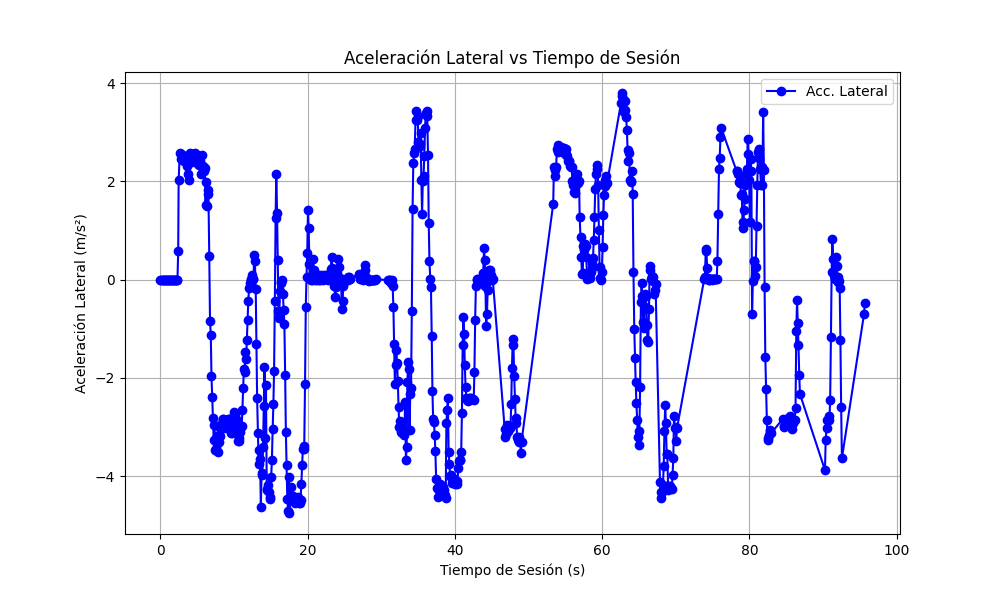
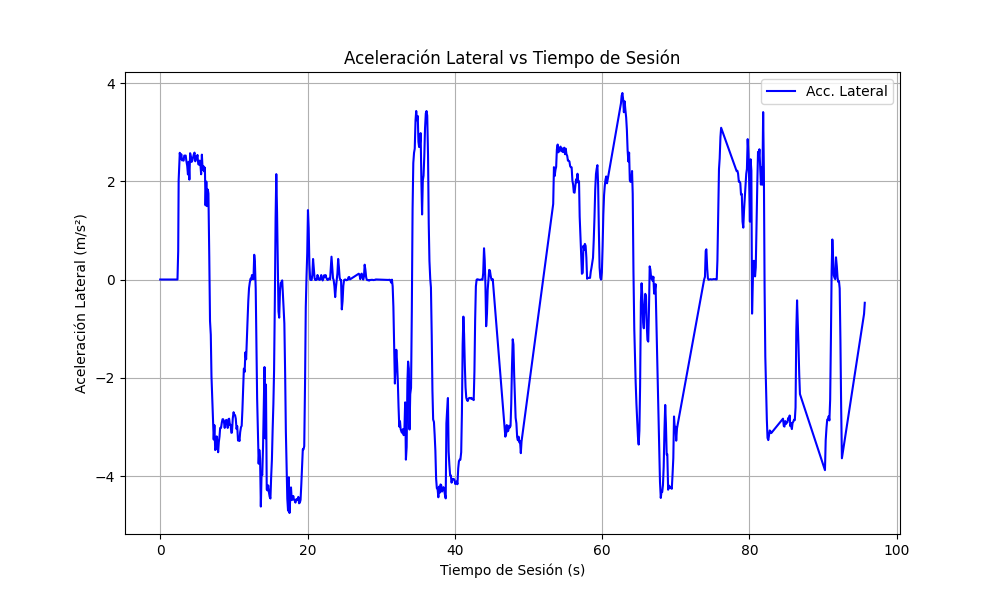
stint repository

diff --git a/f1api/src/main/java/com/f1api/service/packet/PacketLapDataService.java b/f1api/src/main/java/com/f1api/service/packet/PacketLapDataService.java
@@ -2,26 +2,34 @@ package com.f1api.service.packet;
 
 
 import org.springframework.stereotype.Service;
+
 import com.f1api.entity.mongo.packet.lapdata.PacketLapDataEntity;
 import com.f1api.kafka.messaging.packet.PacketReceived;
 import com.f1api.kafka.messaging.packet.types.PacketLapData;
 import com.f1api.repository.mongo.packet.PacketLapDataMongoRepository;
+
 import java.time.LocalDateTime;
 import java.util.List;
 import java.util.UUID;
 import java.util.stream.Collectors;
+
 import com.f1api.entity.mongo.packet.lapdata.LapDataEntity;
 import com.f1api.kafka.messaging.data.LapData;
-import lombok.RequiredArgsConstructor;
+import com.f1api.repository.mongo.stint.StintMongoRepository;
 
 @Service
-@RequiredArgsConstructor
 public class PacketLapDataService extends BaseService{
 
     private final PacketLapDataMongoRepository repository;
 
+    public PacketLapDataService(PacketLapDataMongoRepository repository, StintMongoRepository stintRepository) {
+        super(stintRepository);
+        this.repository = repository;
+    }
+
     public void process(PacketReceived packet){
-       this.repository.save(this.createEntity(packet));
+        this.saveStintNameIfNotExists(packet.getStintName());
+        this.repository.save(this.createEntity(packet));
     }
 
     private PacketLapDataEntity createEntity(PacketReceived packet){

diff --git a/f1api/src/main/java/com/f1api/service/packet/BaseService.java b/f1api/src/main/java/com/f1api/service/packet/BaseService.java
@@ -1,12 +1,24 @@
 package com.f1api.service.packet;
 
+import java.time.Instant;
+import java.time.LocalDateTime;
+import java.util.UUID;
+
 import org.springframework.stereotype.Service;
 
 import com.f1api.entity.mongo.packet.PacketHeaderEntity;
+import com.f1api.entity.mongo.stint.StintEntity;
 import com.f1api.kafka.messaging.packet.types.PacketHeader;
+import com.f1api.repository.mongo.stint.StintMongoRepository;
+
+import lombok.RequiredArgsConstructor;
 
 @Service
+@RequiredArgsConstructor
 public class BaseService {
+
+    protected final StintMongoRepository stintRepository;
+
     protected PacketHeaderEntity createHeaderEntity(PacketHeader packetHeader){
         return new PacketHeaderEntity(
             packetHeader.getPacketFormat(),
@@ -22,5 +34,11 @@ public class BaseService {
             packetHeader.getPlayerCarIndex(),
             packetHeader.getSecondaryPlayerCarIndex()
         );
+    }
+
+    protected void saveStintNameIfNotExists(String stintName){
+        if(!this.stintRepository.existsByStintName(stintName)){
+            this.stintRepository.save(new StintEntity(UUID.randomUUID(), stintName, LocalDateTime.now()));
+        }
     }
 }

diff --git a/f1api/src/main/java/com/f1api/service/packet/PacketCarTelemetryDataService.java b/f1api/src/main/java/com/f1api/service/packet/PacketCarTelemetryDataService.java
@@ -13,16 +13,20 @@ import com.f1api.kafka.messaging.data.CarTelemetryData;
 import com.f1api.kafka.messaging.packet.PacketReceived;
 import com.f1api.kafka.messaging.packet.types.PacketCarTelemetry;
 import com.f1api.repository.mongo.packet.PacketCarTelemetryDataMongoRepository;
-
-import lombok.RequiredArgsConstructor;
+import com.f1api.repository.mongo.stint.StintMongoRepository;
 
 @Service
-@RequiredArgsConstructor
 public class PacketCarTelemetryDataService extends BaseService{
     
     private final PacketCarTelemetryDataMongoRepository repository;
 
+    public PacketCarTelemetryDataService(PacketCarTelemetryDataMongoRepository repository, StintMongoRepository stintRepository) {
+        super(stintRepository);
+        this.repository = repository;
+    }
+
     public void process(PacketReceived packet){
+        this.saveStintNameIfNotExists(packet.getStintName());
         this.repository.save(this.createEntity(packet));
     }
 

diff --git a/f1api/src/main/java/com/f1api/service/packet/PacketMotionExDataService.java b/f1api/src/main/java/com/f1api/service/packet/PacketMotionExDataService.java
@@ -8,16 +8,21 @@ import com.f1api.entity.mongo.packet.motionex.PacketMotionExDataEntity;
 import com.f1api.kafka.messaging.packet.PacketReceived;
 import com.f1api.kafka.messaging.packet.types.PacketMotionEx;
 import com.f1api.repository.mongo.packet.PacketMotionExDataMongoRepository;
-
-import lombok.RequiredArgsConstructor;
+import com.f1api.repository.mongo.stint.StintMongoRepository;
 
 @Service
-@RequiredArgsConstructor
 public class PacketMotionExDataService extends BaseService{
 
     private final PacketMotionExDataMongoRepository repository;
 
+    public PacketMotionExDataService(PacketMotionExDataMongoRepository repository, StintMongoRepository stintRepository) {
+        super(stintRepository);
+        this.repository = repository;
+    }
+
+
     public void process(PacketReceived packet){
+        this.saveStintNameIfNotExists(packet.getStintName());
         this.repository.save(this.createEntity(packet));
     }
 

diff --git a/f1api/src/main/java/com/f1api/service/packet/PacketMotionDataService.java b/f1api/src/main/java/com/f1api/service/packet/PacketMotionDataService.java
@@ -13,16 +13,20 @@ import com.f1api.kafka.messaging.data.CarMotionData;
 import com.f1api.kafka.messaging.packet.PacketReceived;
 import com.f1api.kafka.messaging.packet.types.PacketMotion;
 import com.f1api.repository.mongo.packet.PacketMotionDataMongoRepository;
-
-import lombok.RequiredArgsConstructor;
+import com.f1api.repository.mongo.stint.StintMongoRepository;
 
 @Service
-@RequiredArgsConstructor
 public class PacketMotionDataService extends BaseService{
     
     private final PacketMotionDataMongoRepository repository;
 
+    public PacketMotionDataService(PacketMotionDataMongoRepository repository, StintMongoRepository stintRepository) {
+        super(stintRepository);
+        this.repository = repository;
+    }
+
     public void process(PacketReceived packet){
+        this.saveStintNameIfNotExists(packet.getStintName());
         this.repository.save(this.createEntity(packet));
     }
 

diff --git a/f1api/src/main/java/com/f1api/service/TelemetryService.java b/f1api/src/main/java/com/f1api/service/TelemetryService.java
@@ -1,7 +1,6 @@
 package com.f1api.service;
 
 import java.util.List;
-import java.util.stream.Collector;
 import java.util.stream.Collectors;
 
 import org.springframework.stereotype.Service;
@@ -9,7 +8,6 @@ import org.springframework.web.reactive.function.BodyInserters;
 import org.springframework.web.reactive.function.client.WebClient;
 
 import com.f1api.dto.LatAccDTO;
-import com.f1api.entity.mongo.packet.motion.PacketMotionDataEntity;
 import com.f1api.repository.mongo.packet.PacketCarTelemetryDataMongoRepository;
 import com.f1api.repository.mongo.packet.PacketLapDataMongoRepository;
 import com.f1api.repository.mongo.packet.PacketMotionDataMongoRepository;

diff --git a/f1api/src/main/java/com/f1api/repository/mongo/stint/StintMongoRepository.java b/f1api/src/main/java/com/f1api/repository/mongo/stint/StintMongoRepository.java
@@ -1,0 +1,13 @@
+package com.f1api.repository.mongo.stint;
+
+import java.util.UUID;
+
+import org.springframework.data.mongodb.repository.MongoRepository;
+
+import com.f1api.entity.mongo.stint.StintEntity;
+
+public interface StintMongoRepository extends MongoRepository<StintEntity, UUID>{
+
+    public Boolean existsByStintName(String stintName);
+    
+}

diff --git a/f1api/src/main/java/com/f1api/entity/mongo/stint/StintEntity.java b/f1api/src/main/java/com/f1api/entity/mongo/stint/StintEntity.java
@@ -1,0 +1,15 @@
+package com.f1api.entity.mongo.stint;
+
+import java.time.LocalDateTime;
+import java.util.UUID;
+
+import org.springframework.data.mongodb.core.mapping.Document;
+
+import jakarta.persistence.Id;
+
+@Document("stint")
+public record StintEntity (
+    @Id UUID id,
+    String stintName,
+    LocalDateTime createdAt
+){}

diff --git a/f1api/src/main/java/com/f1api/entity/mongo/packet/motion/PacketMotionDataEntity.java b/f1api/src/main/java/com/f1api/entity/mongo/packet/motion/PacketMotionDataEntity.java
@@ -9,7 +9,6 @@ import org.springframework.data.mongodb.core.mapping.Document;
 import com.f1api.entity.mongo.packet.PacketHeaderEntity;
 
 import jakarta.persistence.Id;
-import lombok.Getter;
 
 @Document("packet_motion_data")
 public record PacketMotionDataEntity (
